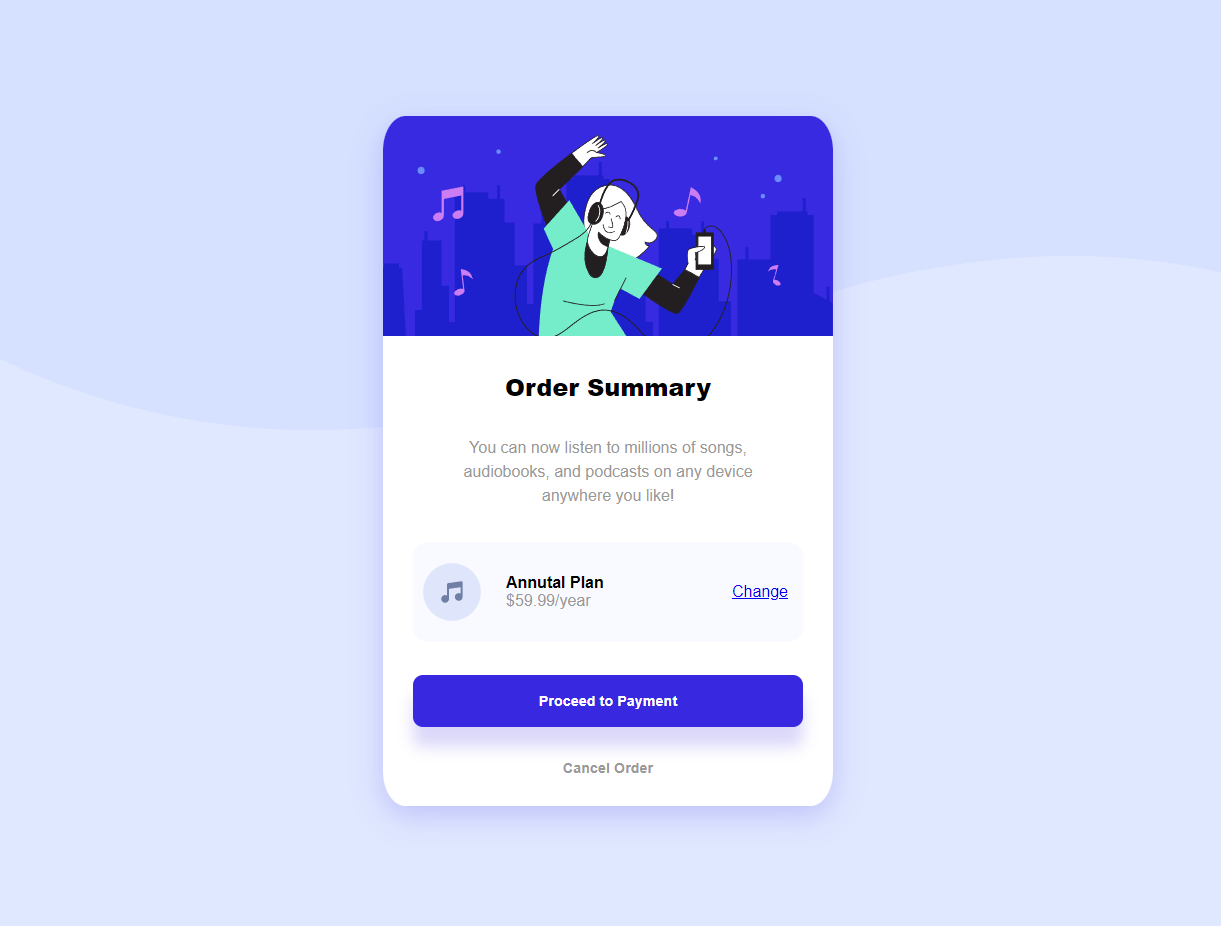
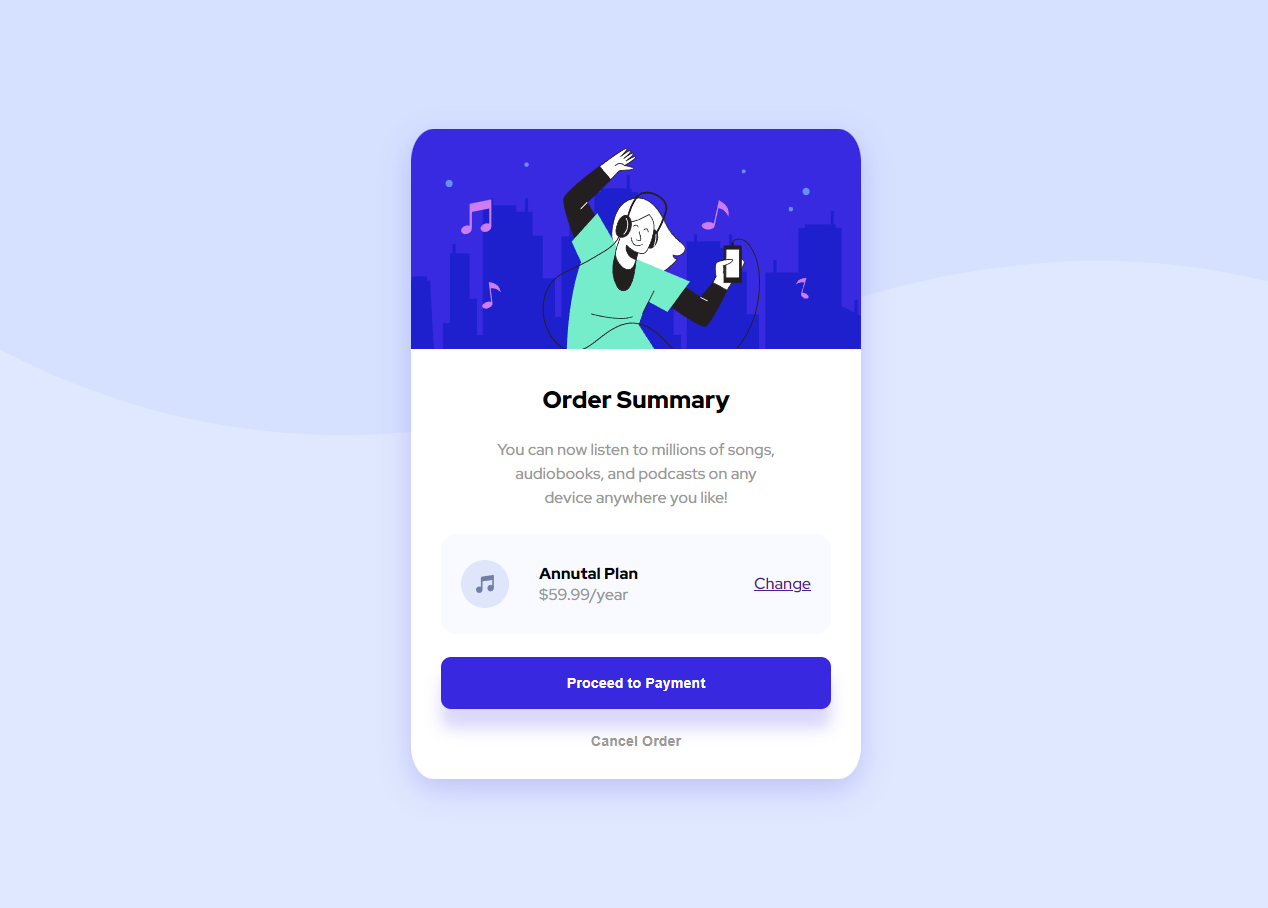
fix: melhorias no design responsivo

Changed region(s): [[0.3112, 0.1233, 0.6847, 0.8943]]

diff --git a/frontend/styles/main.css b/frontend/styles/main.css
@@ -34,8 +34,8 @@ body {
     bottom: 0;
     right: 0;
     left: 0;
-    max-width: 330px;
-    max-height: 600px;
+    width: 330px;
+    height: 580px;
     background-color: #fff;
     border-radius: 5%;
     overflow: hidden;
@@ -45,11 +45,7 @@ body {
     flex-direction: column;
 }
 
-.card-top {
-    width: 100%;
-}
-
-.card-top img{
+.card_top img{
     width: 100%;
 }
 
@@ -150,8 +146,8 @@ body {
 @media screen and (min-width: 500px ){
     
     .card {
-        max-width: 450px;
-        max-height: 690px;
+        width: 450px;
+        height: 650px;
     }
 
     .card h1 {
@@ -170,16 +166,11 @@ body {
         padding: 0px 50px;
     }
 
+    .purchase {
+        padding: 0 20px;
+    }
 
     .purchase_content {
         padding-left: 30px;
-    }
-}
-
-
-@media screen and (min-width: 1450px) {
-
-    body {
-        
     }
 }
